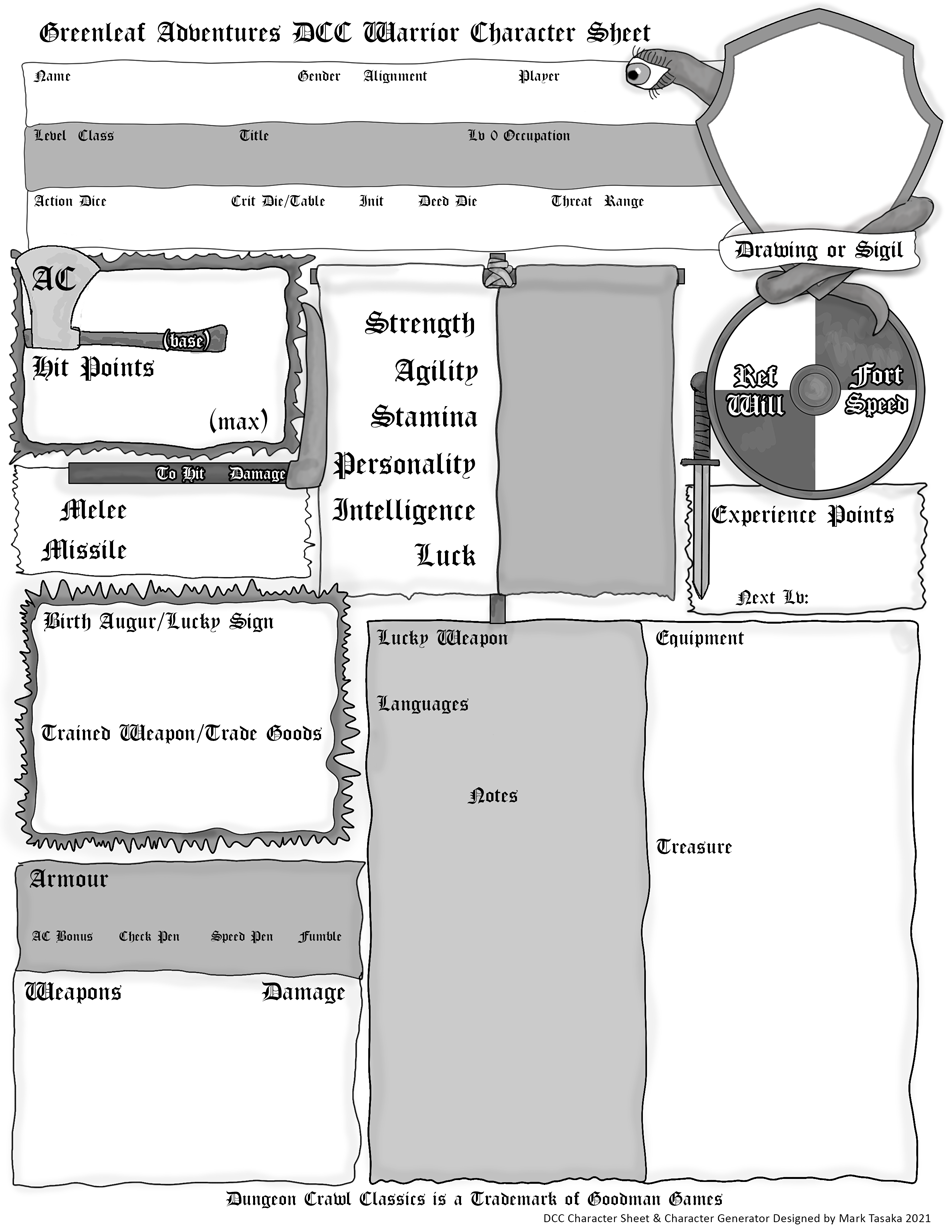
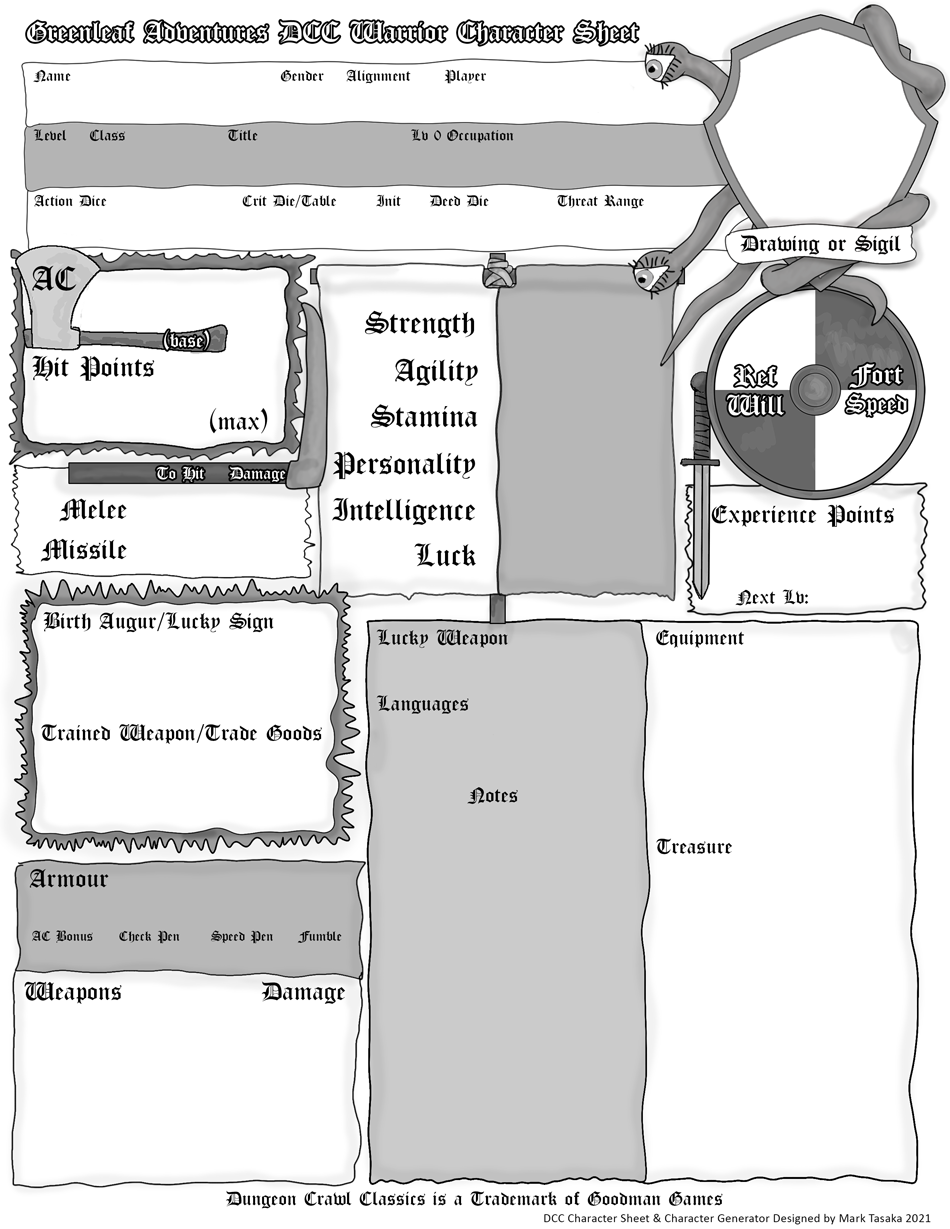
Update 1.02

diff --git a/character/css/warrior.css b/character/css/warrior.css
@@ -22,7 +22,7 @@ body{
 
 #characterName{
     position:absolute;
-    top: 115px;
+    top: 100px;
     left: 45px;
 	font-size: 0.85em;
     width:200px;
@@ -30,7 +30,7 @@ body{
 
 #characterName2{
     position:absolute;
-    top: 115px;
+    top: 100px;
     left: 45px;
 	font-size: 0.85em;
     width:200px;
@@ -39,32 +39,57 @@ body{
 
 #gender{
     position:absolute;
-    top: 115px;
-    left: 273px;
+    top: 100px;
+    left: 292px;
 	font-size: 0.85em;
 }
 
 
 #alignment{
     position:absolute;
-    top: 115px;
-    left: 585px;
+    top: 100px;
+    left: 367px;
+	font-size: 0.85em;
+}
+
+
+#level{
+    position:absolute;
+    top: 163px;
+    left: 48px;
+	font-size: 0.85em;
+}
+
+
+
+#class{
+    position:absolute;
+    top: 163px;
+    left: 105px;
 	font-size: 0.85em;
 }
 
 
 #title{
     position:absolute;
-    top: 176px;
-    left: 225px;
+    top: 163px;
+    left: 240px;
+	font-size: 0.85em;
+}
+
+
+#profession{
+    position:absolute;
+    top: 163px;
+    left: 425px;
 	font-size: 0.85em;
 }
 
 
 #playerName{
     position:absolute;
-    top: 176px;
-    left: 475px;
+    top: 100px;
+    left: 468px;
 	font-size: 0.85em;
 }
 
@@ -224,14 +249,6 @@ body{
 
 
 
-#level{
-    position:absolute;
-    top: 176px;
-    left: 50px;
-	font-size: 0.85em;
-}
-
-
 
 #strength{
     position:absolute;
@@ -325,28 +342,13 @@ body{
 }
 
 
-#class{
-    position:absolute;
-    top: 176px;
-    left: 95px;
-	font-size: 0.85em;
-}
-
-
 #speed{
     position:absolute;
     top: 435px;
-    left: 835px;
-	font-size: 1.2em;
+    left: 845px;
+	font-size: 1.4em;
 }
 
-
-#profession{
-    position:absolute;
-    top: 115px;
-    left: 345px;
-	font-size: 0.85em;
-}
 
 #xpNextLevel{
     position:absolute;
@@ -410,63 +412,66 @@ body{
 
 #reflex{
     position:absolute;
-    top: 345px;
-    left: 755px;
-	font-size: 1.4em;
+    top: 330px;
+    left: 750px;
+	font-size: 1.6em;
 }
 
 #fort{
     position:absolute;
-    top: 430px;
-    left: 755px;
-	font-size: 1.4em;
+    top: 330px;
+    left: 840px;
+	font-size: 1.6em;
+    color: white;
 }
 
 #will{
     position:absolute;
-    top: 345px;
-    left: 830px;
-	font-size: 1.4em;
+    top: 430px;
+    left: 750px;
+	font-size: 1.6em;
+    color: white;
 }
 
 #criticalDieTable{
     position:absolute;
-    top: 243px;
-    left: 205px;
+    top: 227px;
+    left: 255px;
     font-size: 0.85em;
 }
 
+/*
 #deedDie{
     position:absolute;
     top: 370px;
-    left: 470px;
+    left: 270px;
     font-size: 0.9em;
 }
-
+*/
 #initiative{
     position:absolute;
-    top: 243px;
-    left: 337px;
+    top: 227px;
+    left: 380px;
     font-size: 0.9em;
 }
 
 #threatRange{
     position:absolute;
-    top: 243px;
-    left: 570px;
+    top: 227px;
+    left: 580px;
     font-size: 0.9em;
 }
 
 #attackBonus{
     position:absolute;
-    top: 243px;
-    left: 415px;
+    top: 227px;
+    left: 440px;
     font-size: 0.9em;
 }
 
 #actionDice{
     position:absolute;
-    top: 243px;
+    top: 227px;
     left: 50px;
     font-size: 0.85em;
 }

diff --git a/character/dccWarrior.php b/character/dccWarrior.php
@@ -30,7 +30,6 @@
     include 'php/gear.php';
     include 'php/classDetails.php';
     include 'php/abilityScoreGen.php';
-    //include 'php/randomName.php';
     include 'php/xp.php';
     include 'php/diceRoll.php';
     include 'php/luckySign.php';
